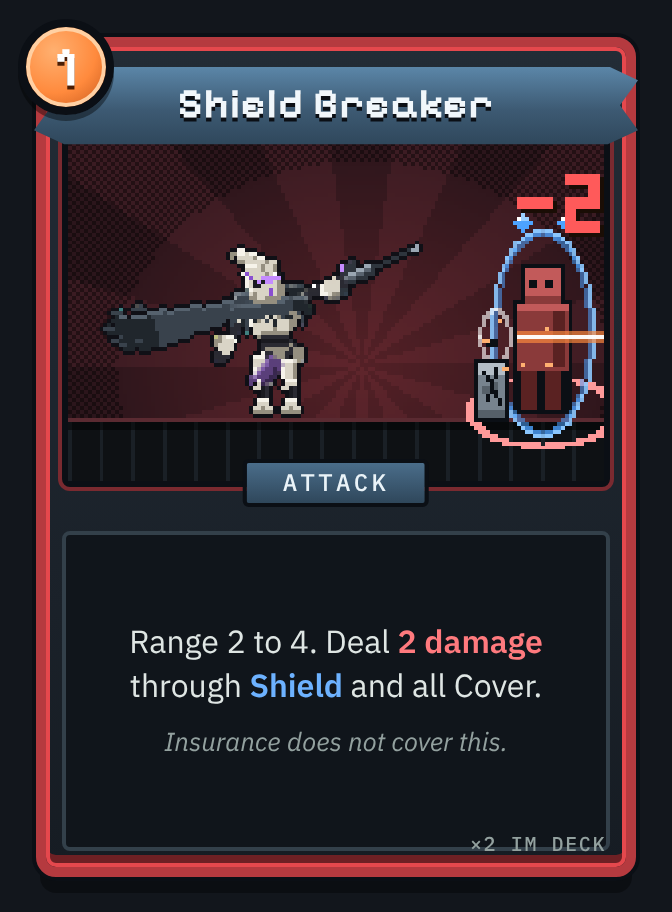
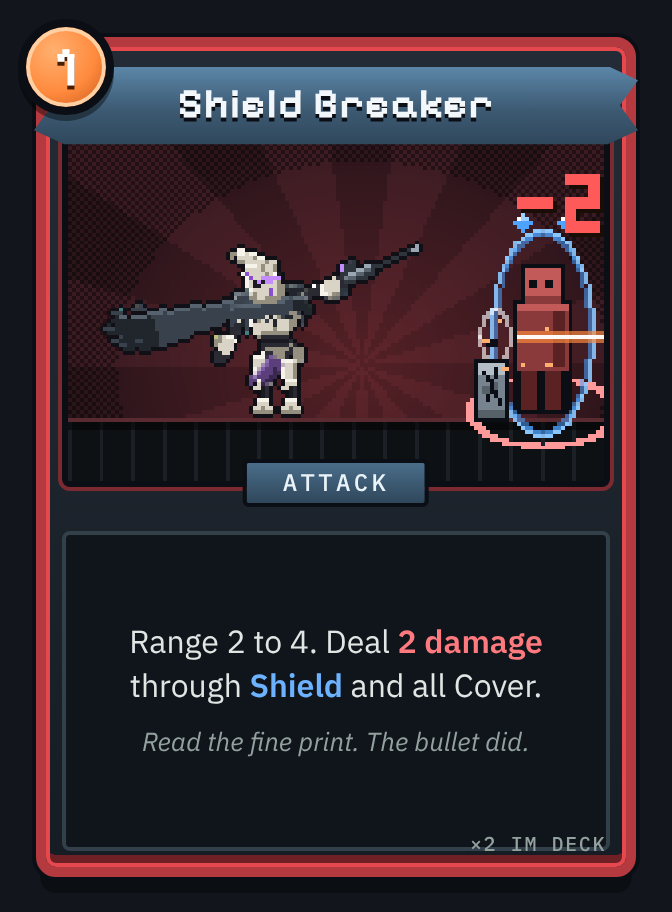
Shield Breaker: new flavour line (#415)
Claude-Session: https://claude.ai/code/session_01Rn1Tt7X9tQdJ1krB9aWBpp

Changed region(s): [[0.2188, 0.7982, 0.7812, 0.8289]]

diff --git a/docs/design/cards/reference/card-faces.html b/docs/design/cards/reference/card-faces.html
@@ -2215,7 +2215,7 @@ Object.assign(CARDS, {
   kl: { cost: 1, kind: 'attack', name: 'Long Shot', text: 'Range 3 to 7. Deal <b class="dmg">3 damage</b>.<br><b class="hid">Hidden</b> or <b class="marked">Marked</b>: up to Range 9. <b class="hid">Hidden</b>: <b class="dmg">+1 damage</b> beyond 7.', flavor: 'Distance is a feature.', copies: 3, hero: 'kit' },
   kv: { cost: 1, kind: 'utility', name: 'Vanish', text: 'Become <b class="hid">Hidden</b> for 2 Resolutions, wherever you stand. Taking damage or shooting ends it.', flavor: 'Out of office.', copies: 2, hero: 'kit' },
   kk: { cost: 1, kind: 'attack', name: 'Personal Space', text: 'Range 1 to 2. Deal <b class="dmg">1 damage</b>. Push the target up to <b class="energy">3 tiles</b> away from you.', flavor: 'Boundaries are important.', copies: 2, hero: 'kit' },
-  kb: { cost: 1, kind: 'attack', name: 'Shield Breaker', text: 'Range 2 to 4. Deal <b class="dmg">2 damage</b> through <b class="shield">Shield</b> and all Cover.', flavor: 'Insurance does not cover this.', copies: 2, hero: 'kit' },
+  kb: { cost: 1, kind: 'attack', name: 'Shield Breaker', text: 'Range 2 to 4. Deal <b class="dmg">2 damage</b> through <b class="shield">Shield</b> and all Cover.', flavor: 'Read the fine print. The bullet did.', copies: 2, hero: 'kit' },
   kmove: { cost: 0, kind: 'action', name: 'Walk It Off', text: 'Move up to <b class="energy">3 tiles</b>. Any card can be used this way.', flavor: 'Mind the gap.', copies: 0, label: 'Move', hero: 'kit' },
   kpitch: { cost: '+1', kind: 'action', name: 'Trade-In', text: 'Discard a card. Gain <b class="energy">1 Energy</b>. Any card can be used this way.', flavor: 'Valued at one Energy.', copies: 0, label: 'Pitch', hero: 'kit' },
   kwait: { cost: 0, kind: 'action', name: 'Stakeout', text: 'Do nothing for one Tick. Needs no card.', flavor: 'Patience is a firearm.', copies: 0, label: 'Wait', hero: 'kit' }
